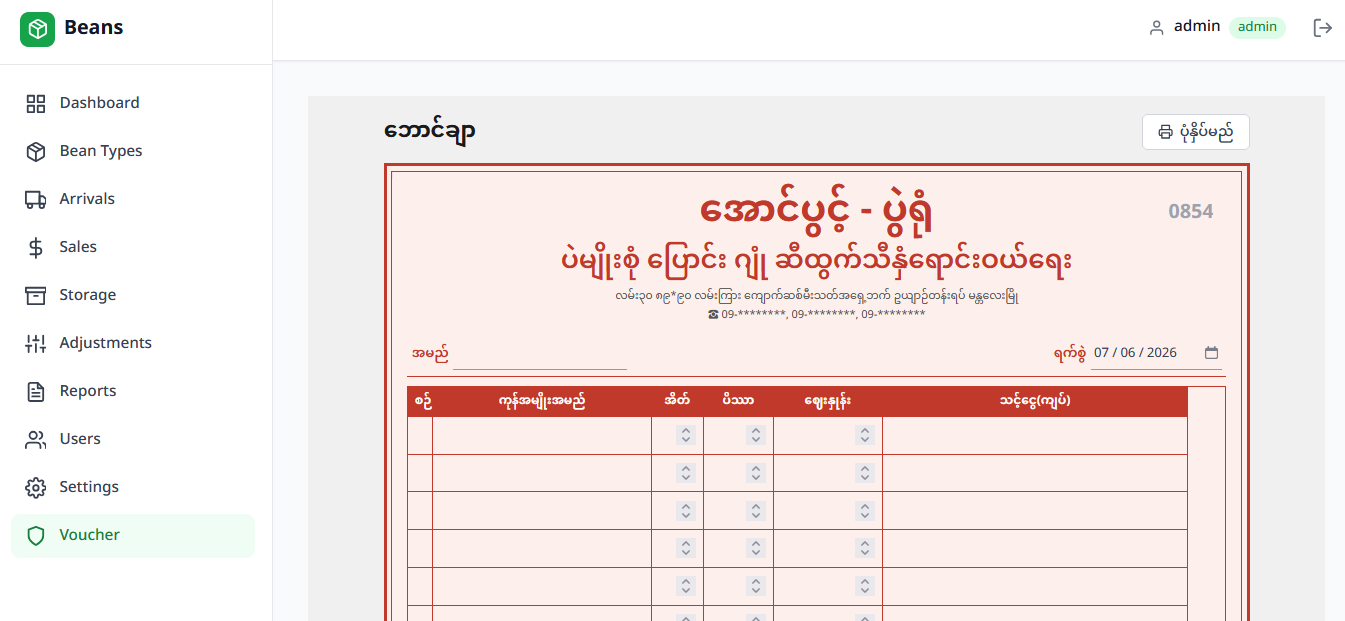
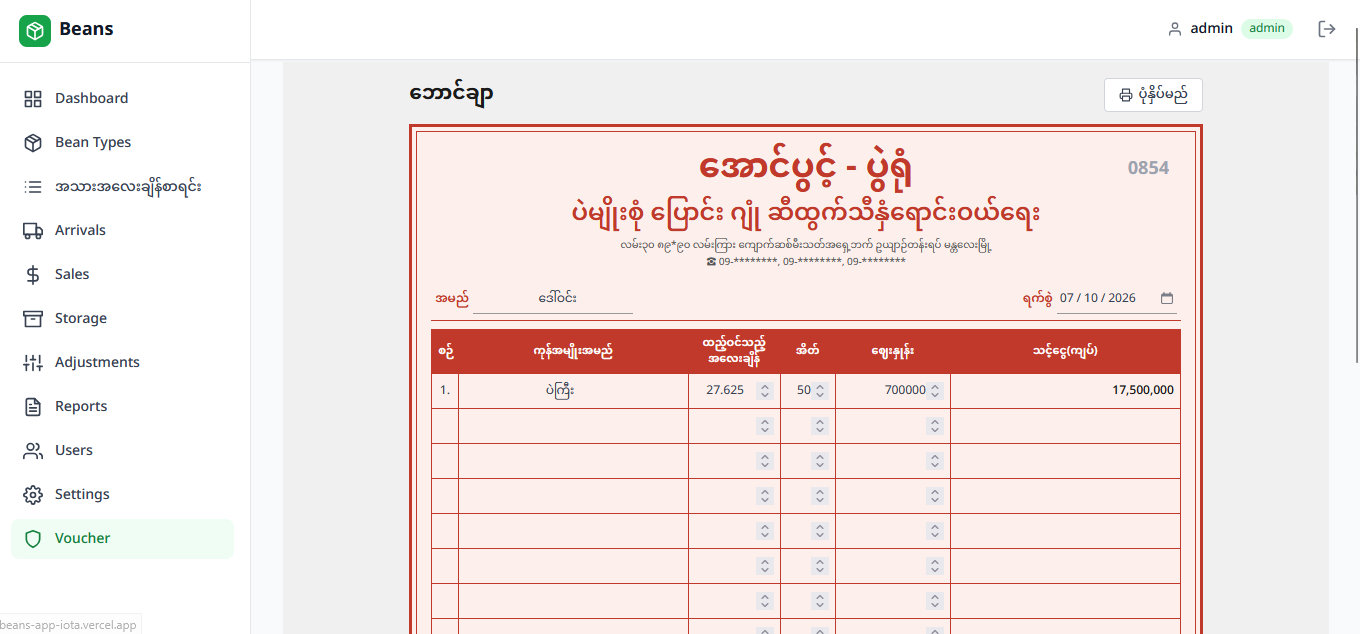
Remove duplicate screenshots folder, update voucher image, update README

diff --git a/README.md b/README.md
@@ -14,7 +14,7 @@
 - **Sales** - Record sales with stock validation (auto-decrements stock)
 - **Storage** - Track warehouse storage locations
 - **Stock Adjustments** - Correct stock levels with audit trail
-- **Dashboard** - Real-time stats, charts, and low-stock alerts
+- **Dashboard** - Real-time stats and charts
 - **Reports** - Daily/Weekly/Monthly/Custom reports with Excel/PDF export
 - **Audit Trail** - Full tracking of all operations
 - **Dark Mode** - Built-in dark mode support